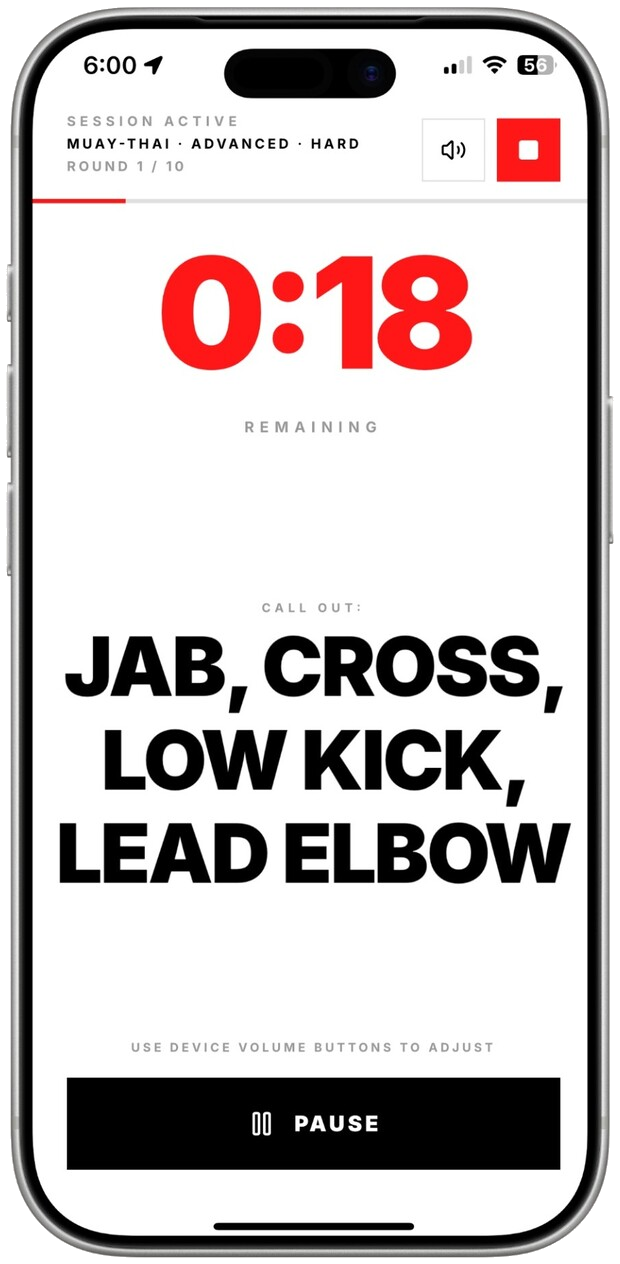
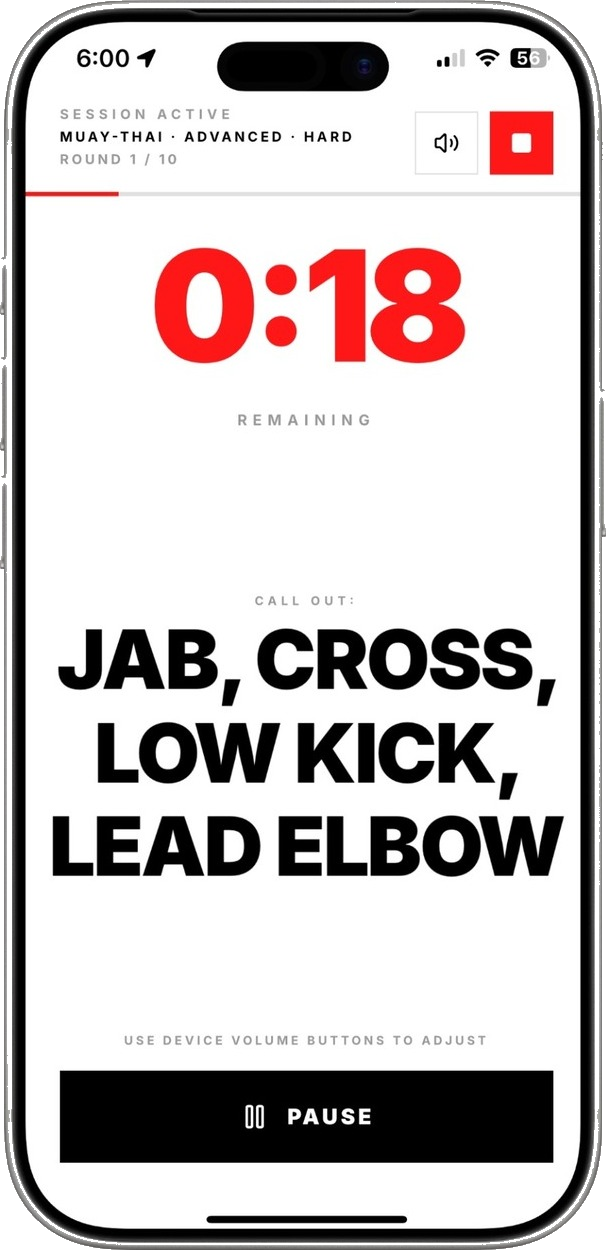
Trim the last of the background off the training-app phone
The flood fill from the corners could not reach the strip along the left
and right edges, because the phone's drop shadow bridged it to the
corners. Scanning columns for the first non-background pixel found the
real device bounds at x=7..613, y=7..1257 - the crop had simply included
a few columns of cream.

Cropped to those exact bounds, then flood-filled the four corners for
the rounded edges. Alpha mean 0.95, and the mid-edge pixels that were
opaque before are now transparent. Composited and inspected on both the
light and dark band colours this time.

Claude-Session: https://claude.ai/code/session_01BhG6AACfosvZxjS2esknUt

diff --git a/index.html b/index.html
@@ -479,7 +479,7 @@
           </p>
         </div>
         <figure class="work-shot">
-          <img src="/work-strikr.png" alt="The training app on a phone" loading="lazy" width="620" height="1264">
+          <img src="/work-strikr.png" alt="The training app on a phone" loading="lazy" width="607" height="1251">
           <figcaption class="mono">iOS and Android, consumer subscription</figcaption>
         </figure>
       </div>
